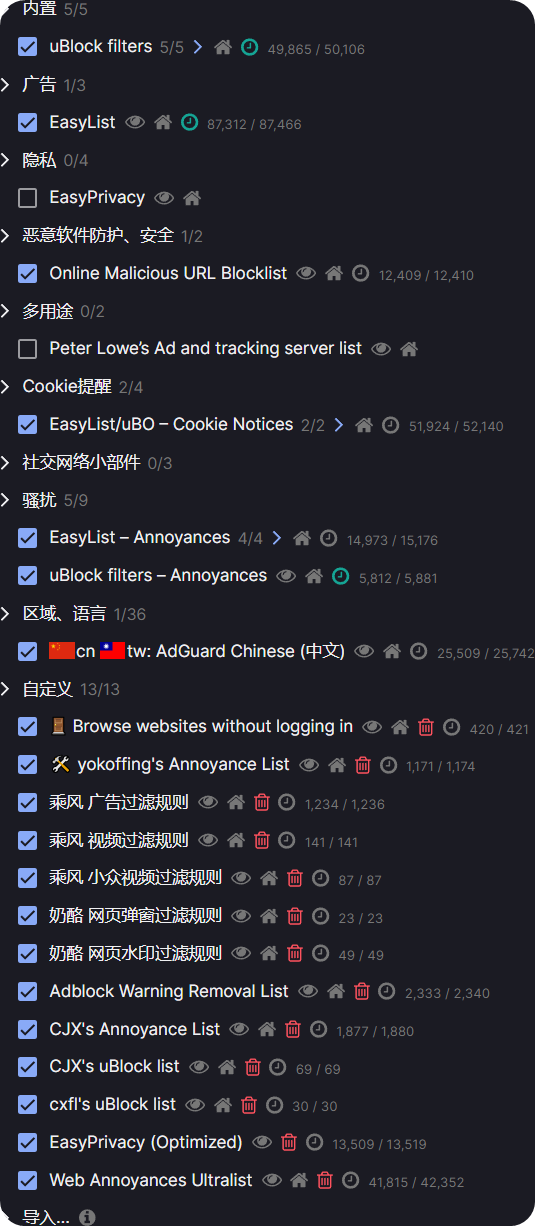
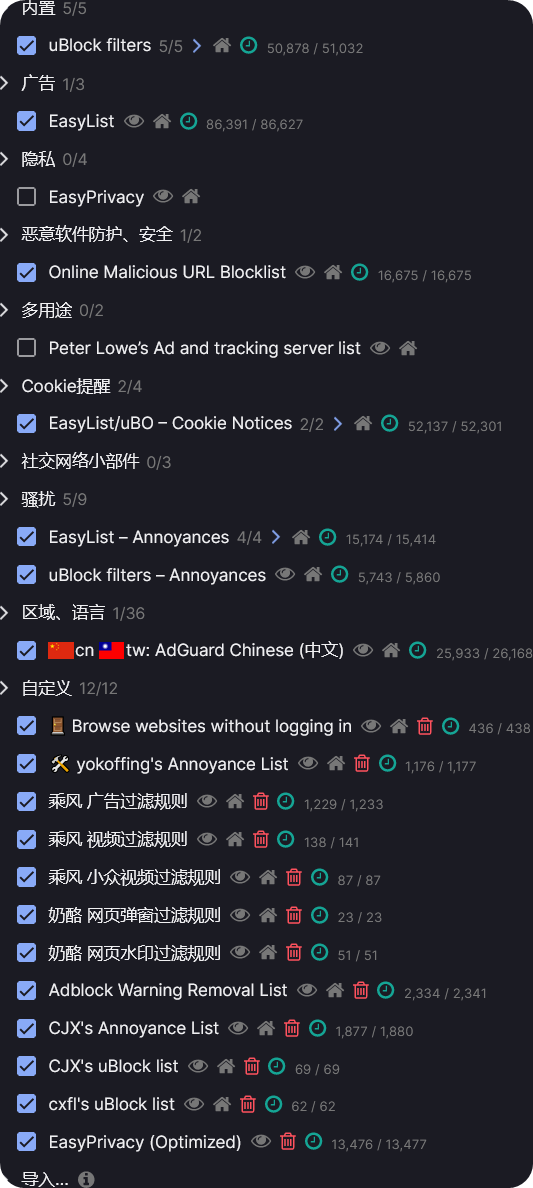
update

diff --git a/README.md b/README.md
@@ -209,12 +209,12 @@ $${👇}$$
 * ### 烦人元素  
 > `🌟 uBlock filters – Annoyances（ubo中勾选）`：<i>ubo自己的烦人元素过滤规则</i>  
 > `🌟 Easylist - Annoyances（ubo中勾选）`：<i>Easylist的烦人元素过滤规则</i>  
-> [`Web Annoyances Ultralist（修复版）`](https://raw.githubusercontent.com/LanikSJ/webannoyances/master/ultralist.txt)：<i>旨在移除阻挡屏幕视图的讨厌网页元素，如固定标题、悬浮导航、社交图标等比较广泛的元素</i>  
+> ~~[`Web Annoyances Ultralist（修复版）`](https://raw.githubusercontent.com/LanikSJ/webannoyances/master/ultralist.txt)：<i>旨在移除阻挡屏幕视图的讨厌网页元素，如固定标题、悬浮导航、社交图标等比较广泛的元素</i>~~  
 > [`🌟 yokoffing's Annoyances List`](https://raw.githubusercontent.com/yokoffing/filterlists/main/annoyance_list.txt)：<i>一个精心策划的列表，捕获了其他维护者错过的麻烦。它还清理了许多网站周围的混乱（例如，相关文章、“阅读更多”等）。</i>  
 > [`🌟 Browse websites without logging in`](https://raw.githubusercontent.com/DandelionSprout/adfilt/master/BrowseWebsitesWithoutLoggingIn.txt)：<i>此列表尝试绕过站点上的强制登录。</i>  
 > [`🌟 Adblock Warning Removal List`](https://downloads.vivaldi.com/lists/abp/antiadblockfilters-current.txt)：<i>某些网站会检测到用户使用了广告拦截器，并显示警告信息，要求用户禁用广告拦截器才能继续访问网站内容，此规则就是用于去除这些警告</i>  
 > > ${\color{#5dff00}Tip：}$  
-> > 其中的 `Web Annoyances Ultralist` 对部分国外网站的损坏严重，请谨慎使用。
+> > 其中的 `Web Annoyances Ultralist` 对部分国外网站的损坏严重，`不建议` 使用。
  
 
  
